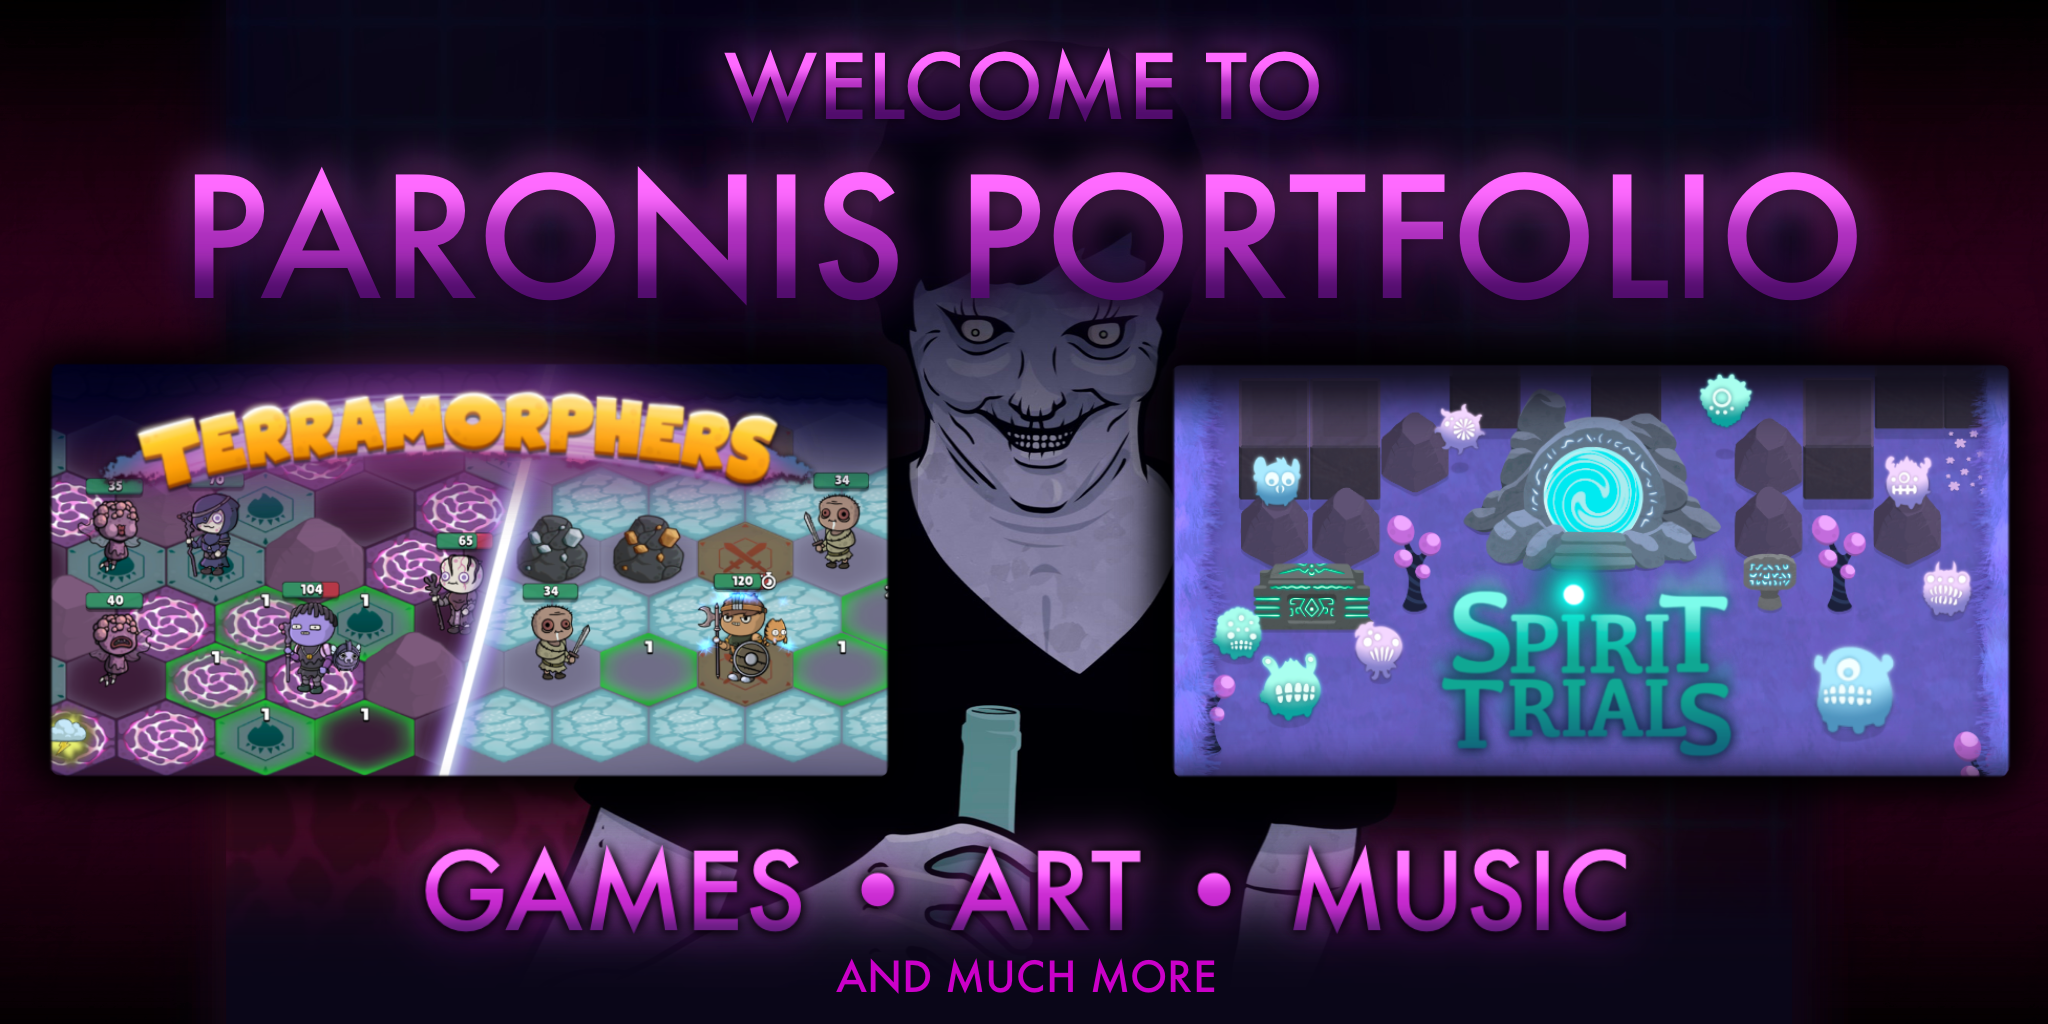
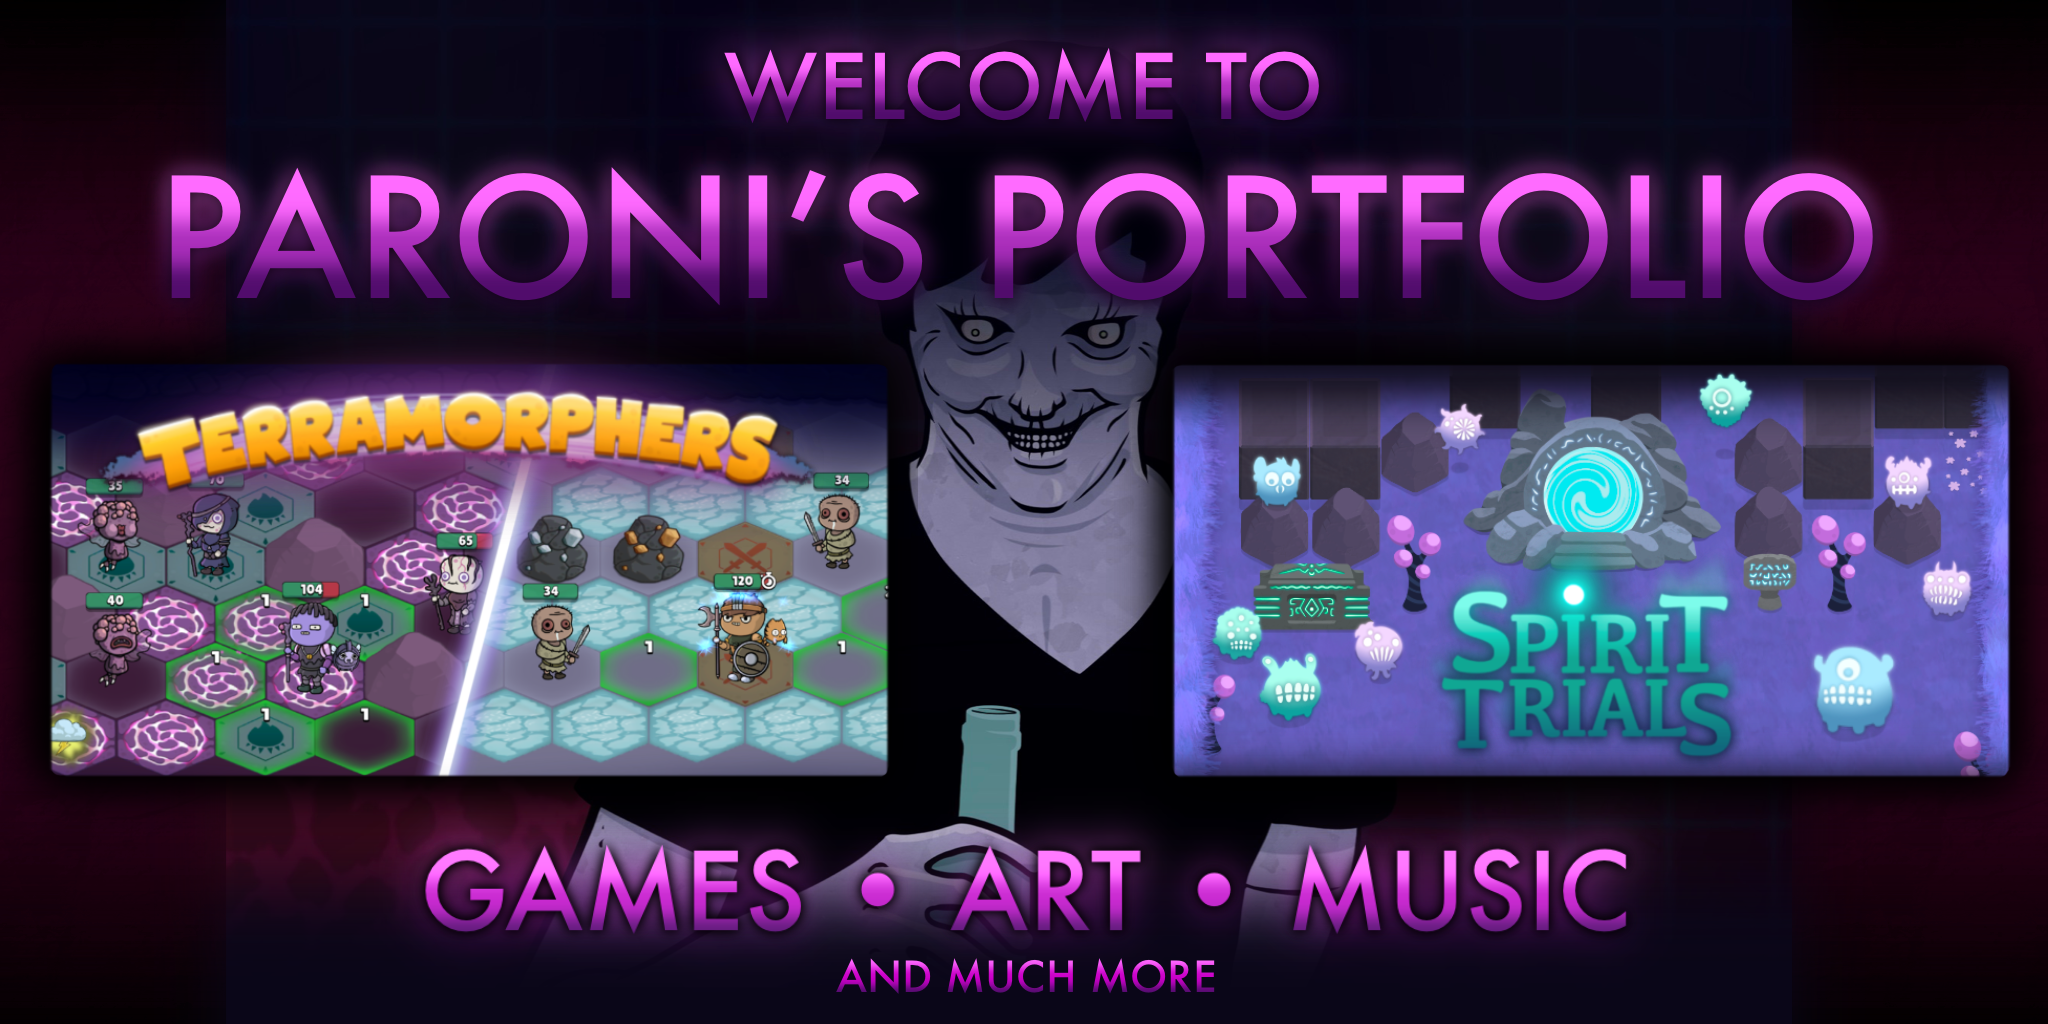
Tiny fixes on header

Changed region(s): [[0.0625, 0.1562, 0.9375, 0.3125], [0.4062, 0.9375, 0.5938, 0.9688]]

diff --git a/fun-post.html b/fun-post.html
@@ -109,7 +109,7 @@
                     
                     <div>
                         <div class="gallery-post">
-                            <img class="gallery-image-large" src="images/fun/me.png">
+                            <img class="gallery-image-large" src="images/fun/me.PNG">
                         </div>
                     </div>                    
                     
